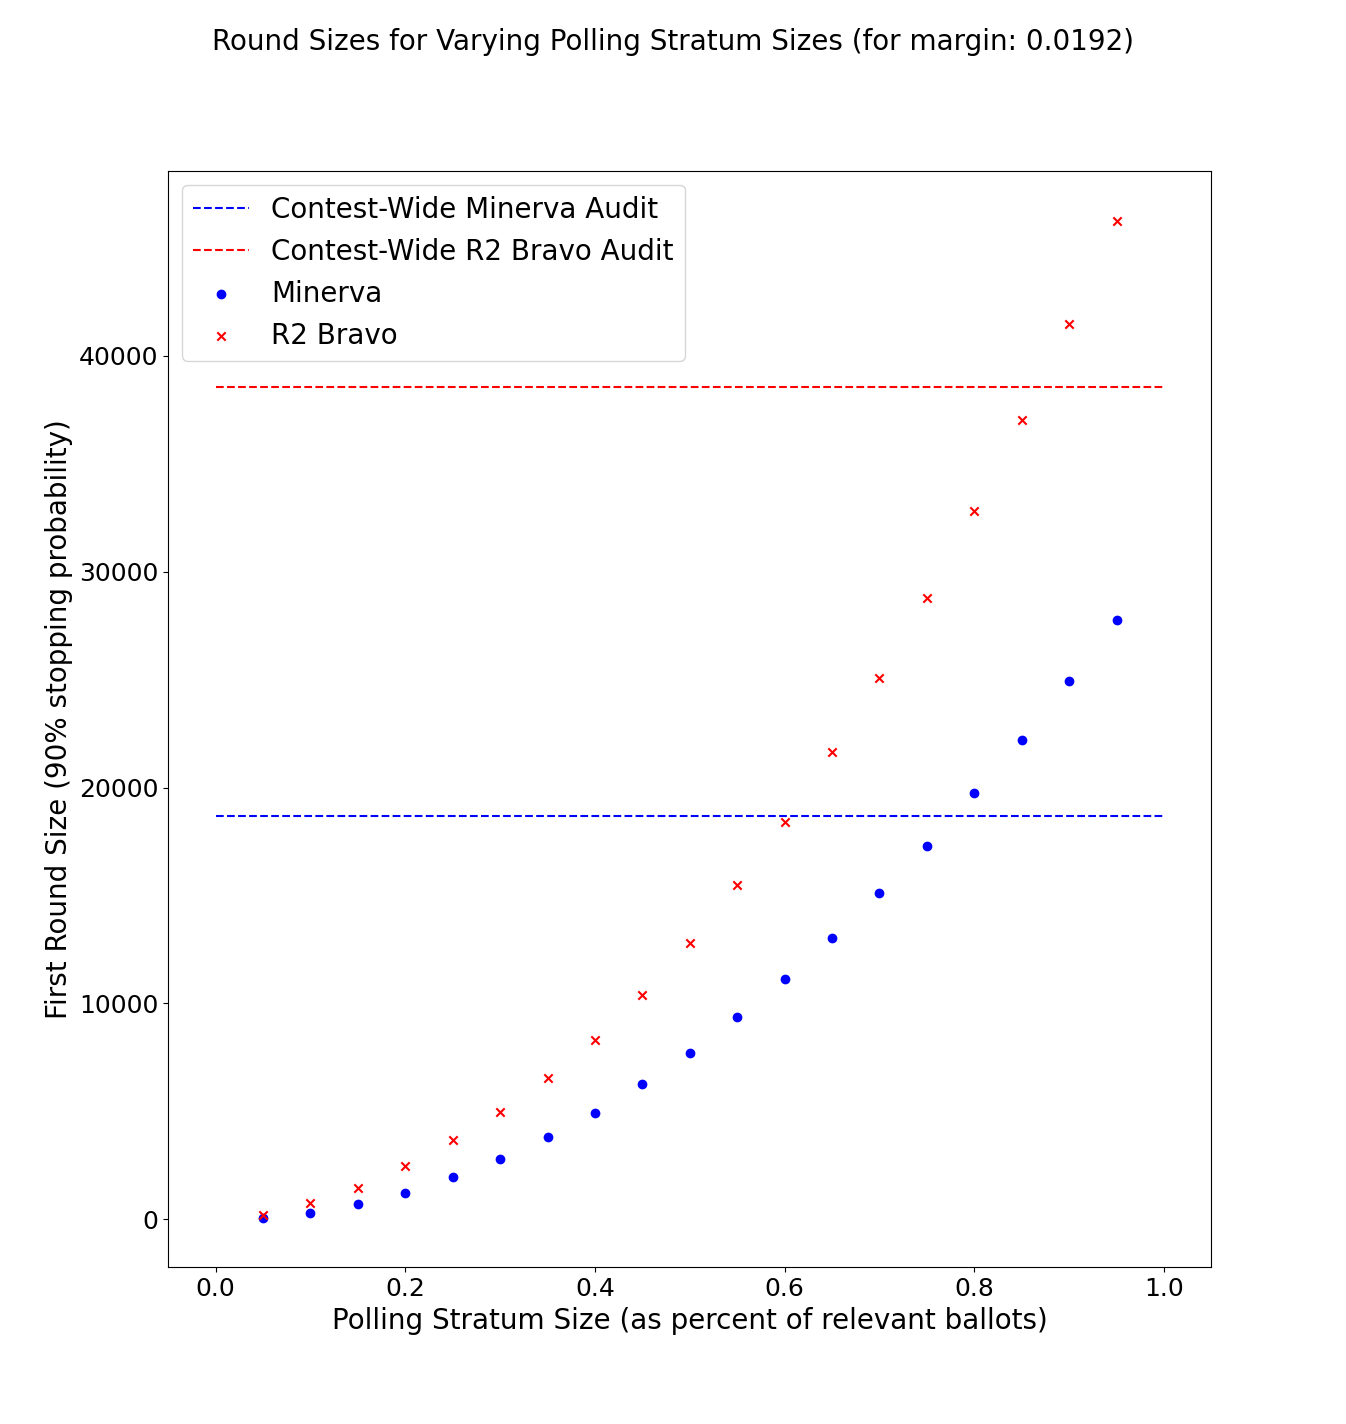
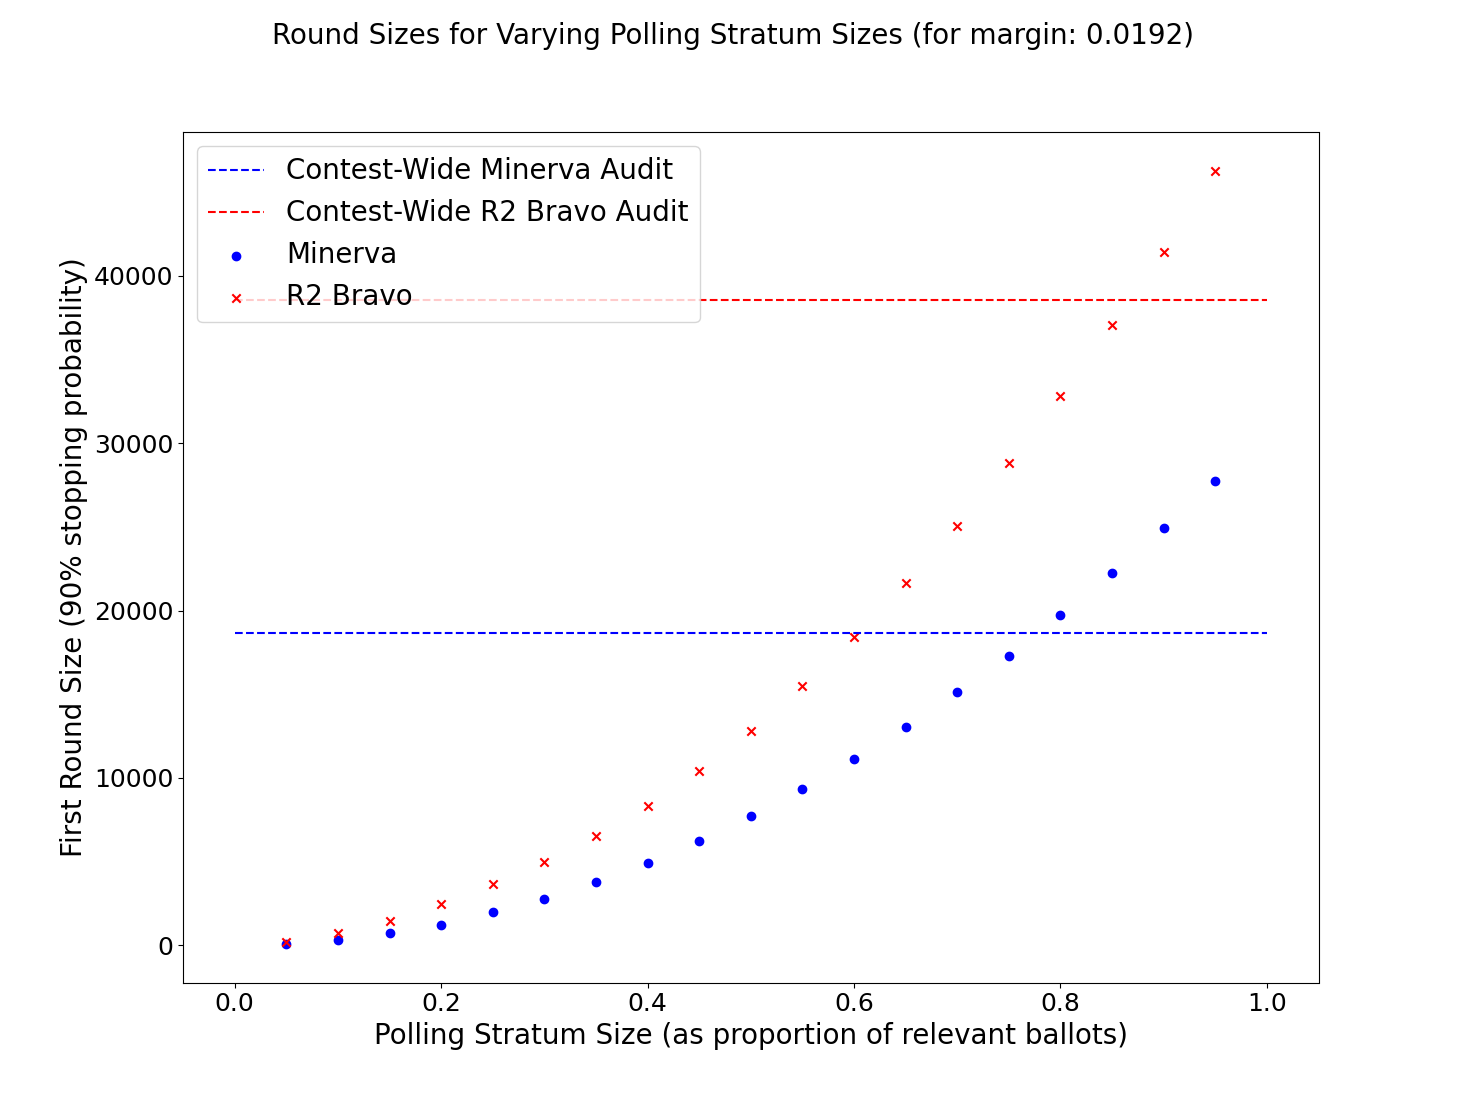
add presidential script (not complete) and change percent to proportion on first plot

diff --git a/presidential_round_sizes.py b/presidential_round_sizes.py
@@ -1,0 +1,151 @@
+"""
+For several states of interest (tight margins), this script generates computes 
+and stores in a json file the polling stratum round sizes that achieve a .9 
+probability of stopping under the alternative hypothesis that the election is 
+truly as announced. It produces both Minerva and R2 Bravo round sizes for various 
+polling stratum sizes (as a percentage of relevant ballots).
+
+Oliver Broadrick 2020
+"""
+
+"""
+States of interest:
+    Rhode Island
+    Wisconsin
+    Michigan
+    Pennsylvania
+    Ohio
+    North Carolina
+"""
+
+from round_sizes import find_sample_size_for_stopping_prob_efficiently, find_sample_size_for_stopping_prob_efficiently_r2bravo
+import math
+import matplotlib.pyplot as plt
+import json
+import pprint
+
+# make an array of the states of interest
+states_of_interest =   [
+        'RhodeIsland',
+        'Wisconsin',
+        'Michigan',
+        'Pennsylvania',
+        'Ohio',
+        'NorthCarolina'
+    ]
+
+# open desired stratified data json file
+with open('data/2016_one_round_all.json') as json_file:
+    data_2016 = json.load(json_file)
+    #pprint.pprint(data)
+
+# loop through the states
+for state in data_2016:
+    if state in states_of_interest:
+
+        # print this states data
+        print("\n", state, ":")
+        pprint.pprint(data_2016[state])
+
+        # track all data in a struct for each state, output to a json file
+        data = data_2016[state]
+        data.update({'audits': []})
+
+        # file for data named based on margin
+        data_file_name = 'data/round_sizes_'+state+'.txt'
+
+        # risk limit of 10%
+        alpha = 0.1
+
+        # overall relevant ballot tallies from state data
+        results = data_2016[state]['contests']['presidential']['results']
+        N_w = max(results)
+        N_l = min(results)
+        N_relevant = N_w + N_l
+        N_w_fraction = N_w / N_relevant
+        fractional_margin = (N_w - N_l) / N_relevant
+        print("N_w: "+str(N_w))
+        print("N_l: "+str(N_l))
+        print("N_relevant: "+str(N_relevant))
+        print("fractional_margin(mine): "+str(fractional_margin))
+
+        # loop through the various percent sizes of the polling stratum
+        for percent_polling in [.05,.1,.15,.2,.25,.3,.35,.4,.45,.5,.55,.6,.65,.7,.75,.8,.85,.9,.95]:
+
+            # divide the ballots into strata
+            # all strata will have the same margin as the overall contest
+            N_2 = round(percent_polling * N_relevant)
+            N_1 = N_relevant - N_2
+            N_w1 = round(N_w_fraction * N_1)
+            N_l1 = N_1 - N_w1
+            N_w2 = N_w - N_w1
+            N_l2 = N_2 - N_w2
+            margin = N_w1 + N_w2 - N_l1 - N_l2
+
+            # sanity check
+            assert (N_l2 + N_l1 == N_l)
+            assert (N_w2 + N_w1 == N_w)
+            assert (N_1 + N_2 == N_relevant)
+         
+            # print for viewing pleasure
+            print("percent_polling: "+str(percent_polling))
+            print ("N_1: "+str(N_1)+"  N_w1: "+str(N_w1)+"  N_l1: "+str(N_l1))
+            print ("N_2: "+str(N_2)+"  N_w2: "+str(N_w2)+"  N_l2: "+str(N_l2))
+         
+            # comparison stratum round size (fixed)
+            n1 = 750
+
+            # desired probability of stopping under the alternative hypothesis that 
+            #   the contest truly is as announced
+            stopping_probability = .9
+
+            # define right bounds for round size search
+            minerva_right = None
+            r2bravo_right = None
+            
+            # obtain and print the minerva round size along with pvalues and lambda
+            minerva_results = find_sample_size_for_stopping_prob_efficiently(stopping_probability, N_w1, N_l1, N_w2, N_l2, n1, alpha, underlying=None, right=minerva_right)
+            print ("minerva_round_size: "+str(minerva_results['round_size']))
+            print("combined_pvalue: "+str(minerva_results['combined_pvalue']))
+            print("comparison pvalue: "+str(minerva_results['comparison_pvalue']))
+            print("polling pvalue: "+str(minerva_results['polling_pvalue']))
+            print("alloc_lambda: "+str(minerva_results['alloc_lambda']))
+
+            # obtain and print the r2bravo round size along with pvalues and lambda
+            r2bravo_results = find_sample_size_for_stopping_prob_efficiently_r2bravo(stopping_probability, N_w1, N_l1, N_w2, N_l2, n1, alpha, underlying=None, right=r2bravo_right)
+            print ("r2bravo_round_size: "+str(r2bravo_results['round_size']))
+            print("combined_pvalue: "+str(r2bravo_results['combined_pvalue']))
+            print("comparison pvalue: "+str(r2bravo_results['comparison_pvalue']))
+            print("polling pvalue: "+str(r2bravo_results['polling_pvalue']))
+            print("alloc_lambda: "+str(r2bravo_results['alloc_lambda']))
+
+            # add this data to the data structure
+            data['audits'].append({
+                'percent_polling':percent_polling,
+                'N_relevant':N_relevant,
+                'N_w':N_w,
+                'N_l':N_l,
+                'N_2':N_2,
+                'N_1':N_1,
+                'N_w1':N_w1,
+                'N_l1':N_l1,
+                'N_w2':N_w2,
+                'N_l2':N_l2,
+                'minerva_round_size':minerva_results['round_size'],
+                'minerva_combined_pvalue':minerva_results['combined_pvalue'],
+                'minerva_comparison_pvalue':minerva_results['comparison_pvalue'],
+                'minerva_polling_pvalue':minerva_results['polling_pvalue'],
+                'minerva_alloc_lambda':minerva_results['alloc_lambda'],
+                'r2bravo_round_size':r2bravo_results['round_size'],
+                'r2bravo_combined_pvalue':r2bravo_results['combined_pvalue'],
+                'r2bravo_comparison_pvalue':r2bravo_results['comparison_pvalue'],
+                'r2bravo_polling_pvalue':r2bravo_results['polling_pvalue'],
+                'r2bravo_alloc_lambda':r2bravo_results['alloc_lambda']
+            })
+
+            # update the file each loop (for convenience of checking progress)
+            with open(data_file_name, 'w') as outfile:
+                json.dump(data, outfile, indent=2)
+
+
+

diff --git a/round_sizes.py b/round_sizes.py
@@ -92,7 +92,7 @@ def compute_dist_over_pvalues(N_w1, N_l1, N_w2, N_l2, n1, n2, alpha, underlying=
     }
         
 
-def compute_stopping_probability(N_w1, N_l1, N_w2, N_l2, n1, n2, alpha, underlying=None):
+def compute_stopping_probability_whole_dist(N_w1, N_l1, N_w2, N_l2, n1, n2, alpha, underlying=None):
     """
     Computes the stopping probability for the given polling stratum first
     round sizes in a 2-strata audit with Minerva.
@@ -100,6 +100,49 @@ def compute_stopping_probability(N_w1, N_l1, N_w2, N_l2, n1, n2, alpha, underlyi
 
     Note/Plan: Come back and search for kmin then find pr[k >= kmin | alt]
                 Should work and be faster...
+
+    Args:
+        N_w1 (int): reported number of votes for the winner in the comparison stratum
+        N_l1 (int): reported number of votes for the loser in the comparison stratum
+        N_w2 (int): reported number of votes for the winner in the polling stratum
+        N_l2 (int): reported number of votes for the loser in the polling stratum
+        n1 (int): number of comparisons
+        n2 (int): first round size in the polling stratum
+        alpha (float): risk limit
+        underlying (dict): feature not yet implemented (coming soon to a repo near you!)
+
+    Return (float):
+        the probability of stopping for the given round sizes
+    """
+
+    results = compute_dist_over_pvalues(N_w1, N_l1, N_w2, N_l2, n1, n2, alpha, underlying=None)
+
+    possible_winner_votes = results["possible_winner_votes"]
+    dist_over_winner_votes = results["dist_over_winner_votes"]
+    pvalues = results["pvalues"]
+
+    # find the index of the first pvalue that passes the stopping condition
+    index = None
+    for i,pvalue in zip(range(0, n2 + 1), pvalues):
+        if (pvalue <= alpha):
+            index = i
+            break
+
+    # if there is not such index then the probability of stopping is 0
+    if (index is None):
+        return 0
+
+    prob_stop = sum(dist_over_winner_votes[index:])
+
+    return prob_stop
+
+def compute_stopping_probability(N_w1, N_l1, N_w2, N_l2, n1, n2, alpha, underlying=None):
+    """
+    Computes the stopping probability for the given strata sample sizes for 
+    a 2-strata audit with Minerva for the polling stratum by finding
+    kmin, then finding Pr[k >= kmin | alt].
+
+    NOT YET DONE
 
     Args:
         N_w1 (int): reported number of votes for the winner in the comparison stratum

diff --git a/plot_data.py b/plot_data.py
@@ -49,7 +49,7 @@ fig.suptitle('Round Sizes for Varying Polling Stratum Sizes (for margin: '+str(o
 ax = fig.add_subplot(111)#numrows, numcols, num of subplot being referenced
 ax.scatter(percent_pollings, minerva_round_sizes, color='b', marker='o', label='Minerva')
 ax.scatter(percent_pollings, r2bravo_round_sizes, color='r', marker='x', label='R2 Bravo')
-ax.set_xlabel('Polling Stratum Size (as percent of relevant ballots)', fontsize=20)
+ax.set_xlabel('Polling Stratum Size (as proportion of relevant ballots)', fontsize=20)
 ax.set_ylabel('First Round Size (90% stopping probability)', fontsize=20)
 ax.plot([0,1],[minerva_round_size_no_stratification,minerva_round_size_no_stratification], label='Contest-Wide Minerva Audit', linestyle='dashed', color='b')
 ax.plot([0,1],[r2bravo_round_size_no_stratification,r2bravo_round_size_no_stratification], label='Contest-Wide R2 Bravo Audit', linestyle='dashed', color='r')
